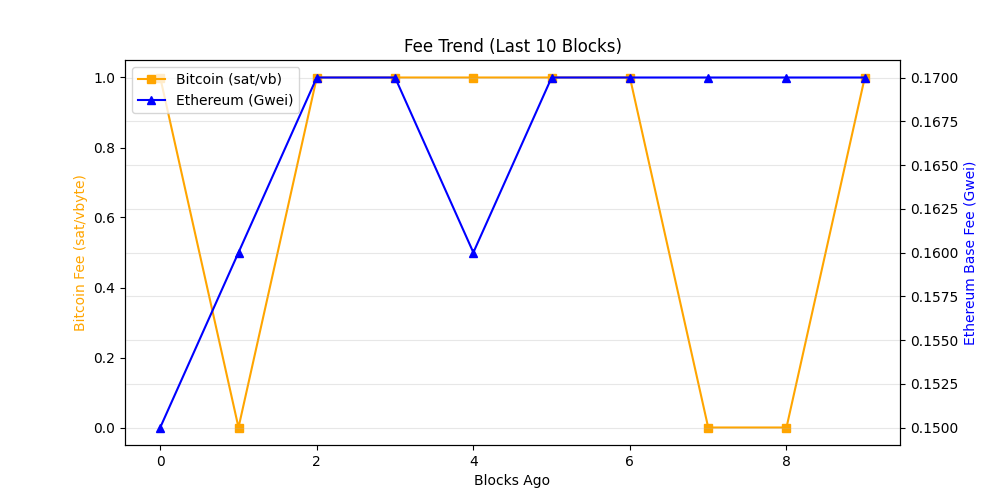
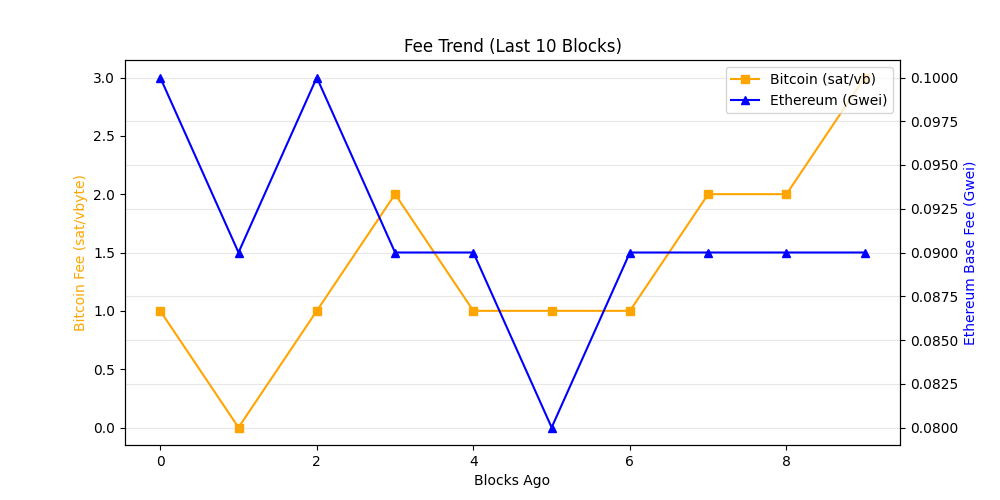
chore: update on-chain dashboard

diff --git a/README.md b/README.md
@@ -19,7 +19,7 @@ The README itself acts as the dashboard and is regenerated automatically on a 6 
 demonstrating a production-style, infrastructure-focused observability workflow rather
 than a traditional UI-driven approach.
 
-_Last updated: 2026-06-22 21:12 UTC_
+_Last updated: 2026-06-23 04:19 UTC_
 
 ## API Usage (GetBlock.io)
 - Calls used: **24**
@@ -27,8 +27,8 @@ _Last updated: 2026-06-22 21:12 UTC_
 ## Network Metrics
 | Chain | Block Height | TX Count | TPS (10 blk avg) | Block Util | Avg Fee |
 |------|-------------|----------|------------------|------------|---------|
-| Ethereum | 25375750 | 622 | 51.83 | 52.68% | 0.2 Gwei |
-| Bitcoin | 954899 | 5699 | 13.38 | 99.89% | N/A |
+| Ethereum | 25377877 | 329 | 27.42 | 83.27% | 0.1 Gwei |
+| Bitcoin | 954944 | 4306 | 1.9 | 99.79% | N/A |
 
 ## Visuals
 ### Transactions Trend
@@ -43,11 +43,11 @@ _Last updated: 2026-06-22 21:12 UTC_
 ## Whale Alerts (latest block)
 - Transaction hashes are truncated for readability.
 - Full hashes are available in `dashboards/metrics.json`
-- Bitcoin | 152.16 BTC | `3f7a8bde6cb3…`
-- Bitcoin | 625.94 BTC | `bd7b7ba0a9c3…`
-- Bitcoin | 174.66 BTC | `fa08b7c6ad91…`
-- Bitcoin | 482.37 BTC | `bb7d208c7c17…`
-- Bitcoin | 291.42 BTC | `09b93453397f…`
+- Bitcoin | 1837.19 BTC | `76481c8afb49…`
+- Bitcoin | 250.0 BTC | `621f040ff6a7…`
+- Bitcoin | 285.47 BTC | `7080322e9912…`
+- Bitcoin | 121.09 BTC | `048b53e7fac0…`
+- Bitcoin | 215.86 BTC | `869b232f81e3…`
 
 ## Run locally
 
